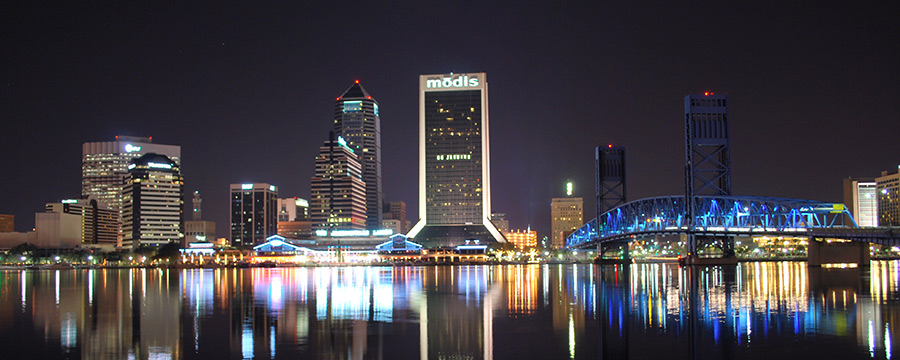
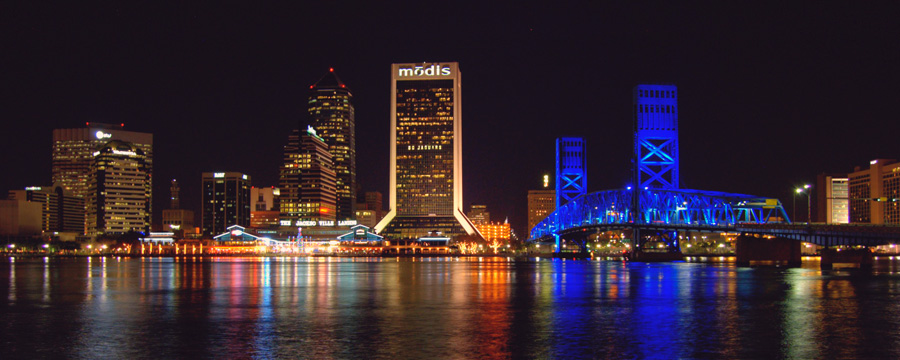
Added a new background, available under CC.

diff --git a/index.html b/index.html
@@ -13,6 +13,10 @@
     </head>
     <body>
 	<div id="banner"></div>
+	<!-- User under CC BY-SA 2.0 (https://creativecommons.org/licenses/by-sa/2.0/).
+	    Original work by  Don Dearing (https://www.flickr.com/photos/iwaswired/3135229095/)
+	    This is a modified work. 
+	    As required by the license, this derivative is available under CC BY_SA 2.0.-->
 	
 	<div class="content">
 	    <article>
